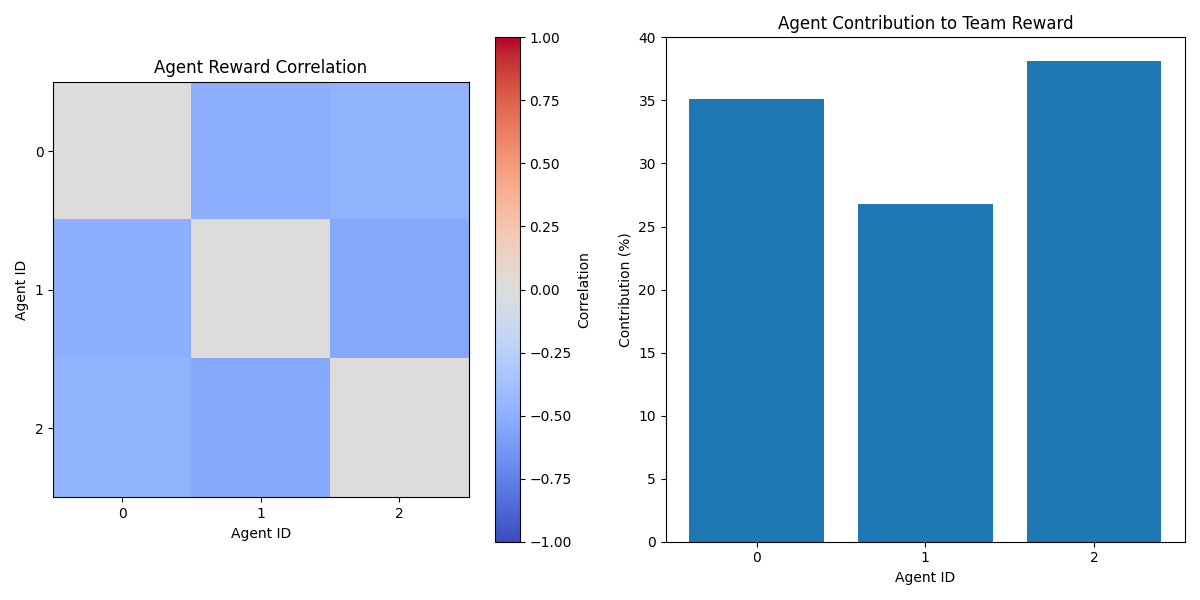
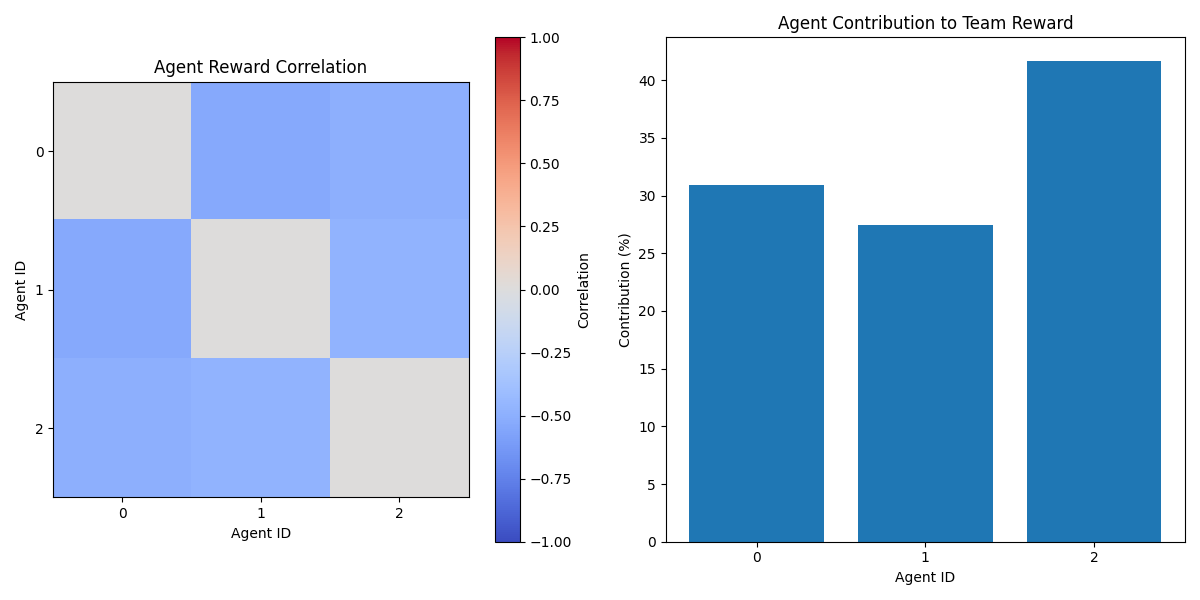
Tiempo de viaje implementado

diff --git a/environment.py b/environment.py
@@ -71,13 +71,20 @@ class FirefightingEnv(gym.Env):
         # - Agent's final destination (len(all_nodes))
         # - Other agents' next destinations (len(all_nodes) * (num_agents-1))
         # - Other agents' final destinations (len(all_nodes) * (num_agents-1))
+
         self.state_dim = (
             len(self.all_nodes) * len(self.all_nodes) +  # Full adjacency matrix
             len(self.all_nodes) +    # Active fire nodes
             len(self.all_nodes) +    # Water source nodes
             len(self.all_nodes) +    # One-hot encoding of agent's position
             1 +                      # Current water level
-            len(self.all_nodes) * (self.num_agents - 1)   # Other agents' positions
+            len(self.all_nodes) * (self.num_agents - 1) +  # Other agents' positions
+            1 +                      # Transit status
+            1 +                      # Transit time remaining
+            len(self.all_nodes) +    # Agent's next destination
+            len(self.all_nodes) +    # Agent's final destination
+            len(self.all_nodes) * (self.num_agents - 1) +  # Other agents' next destinations
+            len(self.all_nodes) * (self.num_agents - 1)    # Other agents' final destinations
         )
 
         # Define action space (one per agent)
@@ -183,41 +190,53 @@ class FirefightingEnv(gym.Env):
             info: Additional information
         """
         assert len(actions) == self.num_agents, f"Expected {self.num_agents} actions, got {len(actions)}"
-        
         rewards = [0] * self.num_agents
-        
-        # Process each agent's action
-        for agent_id, action in enumerate(actions):
-            # ESTA ES LA LÍNEA CLAVE - Las acciones YA son índices en all_actions
-            # No necesitamos convertirlas, solo verificar que sean válidas
-            target_node = self.all_actions[action]
-            
-            # Verificar si el nodo destino es uno válido para este agente
-            if target_node not in self.agent_action_spaces[agent_id]['available']:
-                #print(f"Invalid target for agent {agent_id}: {target_node}, staying put.")
-                rewards[agent_id] = 0
-                self.agent_rewards[agent_id] += 0   # No reward for invalid action (stay put) but should penalize?
-                continue
-            
+        # Tracking de agentes que completaron el movimiento en este turno
+        just_arrived_agents = set()
+
+        # 1. Procesar movimiento de todos los agentes
+        for agent_id in range(self.num_agents):
+            if self.agent_in_transit[agent_id]:
+                self.move_to_node(agent_id, self.agent_transit_target[agent_id])
+                # Si llegó a destino en este turno
+                if not self.agent_in_transit[agent_id]:
+                    just_arrived_agents.add(agent_id)
+                    # Actualizar espacio de acciones pero NO procesar acciones automáticas todavía
+                    self._update_agent_action_space(agent_id)
+
+        # 2. Procesar llegadas
+        for agent_id in just_arrived_agents:
+            arrived_node = self.agent_positions[agent_id]
+            action = self.all_actions.index(arrived_node)
             reward = self._process_agent_action(agent_id, action)
             rewards[agent_id] = reward
             self.agent_rewards[agent_id] += reward
-        
-        # Update global reward
+
+        # 3. Elección de acción para agentes que NO llegaron en este turno
+        for agent_id, action in enumerate(actions):
+            # Omitir agentes que están en tránsito o acaban de llegar
+            if self.agent_in_transit[agent_id] or agent_id in just_arrived_agents:
+                continue
+            # Procesar acción normalmente
+            target_node = self.all_actions[action]
+            if target_node not in self.agent_action_spaces[agent_id]['available']:
+                rewards[agent_id] = 0
+                continue
+            reward = self._process_agent_action(agent_id, action)
+            rewards[agent_id] = reward
+            self.agent_rewards[agent_id] += reward
+
+        # UPDATE global reward
         self.total_reward += sum(rewards)
-        
         # Advance step and check episode completion
         self.current_step += 1
-        
         # Terminate if all fires are extinguished
         terminated = all(fire <= 0 for fire in self.fires_remaining.values())
         truncated = self.current_step >= self.max_steps
-
         # Bonus reward for extinguishing all fires
         if terminated:
             for agent_id in range(self.num_agents):
                 rewards[agent_id] += 1000.0
-        
         # Get observations for all agents
         observations = tuple(self._get_observation(agent_id) for agent_id in range(self.num_agents))
         info = self._get_info()
@@ -227,18 +246,20 @@ class FirefightingEnv(gym.Env):
     def _update_agent_action_space(self, agent_id):
         """Actualiza el espacio de acciones para un agente basado en su posición actual."""
         available_actions = []
-
-        # PRIORIDAD 1: Incendios activos si tiene agua
+        # Incendios activos si tiene agua
         if self.agent_water_levels[agent_id] > 0:
             for fire_node in self.fire_actions:
                 if (fire_node in self.fires_remaining and 
                     self.fires_remaining[fire_node] > 0):
                     available_actions.append(fire_node)
-
-        # PRIORIDAD 2: Tanques si necesita agua
+        # Tanques si necesita agua
         if self.agent_water_levels[agent_id] < self.vehicle_types[agent_id]['capacity']:
             for tank_node in self.tank_actions:
                 available_actions.append(tank_node)
+        # Si está en tránsito, no puede hacer nada
+        if self.agent_in_transit[agent_id]:
+            # Si el agente está en tránsito, no puede hacer nada
+            available_actions = []
 
         # Actualizar el espacio de acciones del agente
         self.agent_action_spaces[agent_id]['available'] = available_actions
@@ -258,18 +279,58 @@ class FirefightingEnv(gym.Env):
         # Manejar caso inesperado
         raise ValueError(f"Acción no válida: {action}")
     
+    def move_to_node(self, agent_id, target_node):
+        """Move an agent to a target node with transit time."""
+        # Si ya está en el nodo destino, no hacer nada
+        if self.agent_positions[agent_id] == target_node:
+            return
+        # Si el agente ya está en tránsito, procesar el tiempo restante
+        if self.agent_in_transit[agent_id]:
+            # Reducir tiempo restante
+            self.agent_transit_time_remaining[agent_id] -= 1
+            # Si el tránsito ha terminado
+            if self.agent_transit_time_remaining[agent_id] <= 0:
+                # Eliminar agente de la arista
+                current_edge = (self.agent_transit_source[agent_id], self.agent_transit_target[agent_id])
+                if agent_id in self.edge_occupancy[current_edge]:
+                    self.edge_occupancy[current_edge].remove(agent_id)
+
+                # Actualizar posición y limpiar estado de tránsito
+                self.agent_positions[agent_id] = self.agent_transit_target[agent_id]
+                self.agent_in_transit[agent_id] = False
+                self.agent_transit_time_remaining[agent_id] = 0
+                self.agent_transit_source[agent_id] = None
+                self.agent_transit_target[agent_id] = None
+                self.final_destinations[agent_id] = None
+            return
+        # Iniciar un nuevo tránsito
+        current_node = self.agent_positions[agent_id]
+        transit_time = self.graph[current_node][target_node]['transit_time']
+        # Registrar estado de tránsito
+        self.agent_transit_source[agent_id] = current_node
+        self.agent_transit_target[agent_id] = target_node
+        self.final_destinations[agent_id] = target_node
+        self.agent_in_transit[agent_id] = True
+        self.agent_transit_time_remaining[agent_id] = transit_time
+        # Actualizar ocupación de aristas
+        edge = (current_node, target_node)
+        self.edge_occupancy[edge].append(agent_id)
+    
     def handle_fire_action(self, agent_id, fire_node):
         """Handle an agent's action to target a fire node."""
-        reward = 0
-
         # Check if fire still exists
         if fire_node not in self.fires_remaining or self.fires_remaining[fire_node] <= 0:
-            return reward
+            return 0
         # Check if agent has enough water
         if self.agent_water_levels[agent_id] <= 0:
-            return reward
-        # Move to the fire node
-        self.agent_positions[agent_id] = fire_node
+            return 0
+        
+        # Si el agente no está en el nodo de incendio, moverse hacia él
+        if self.agent_positions[agent_id] != fire_node:
+            self.move_to_node(agent_id, fire_node)
+            if self.agent_in_transit[agent_id]:
+                return 0  # No reward if agent is in transit
+            
         # Try to extinguish the fire
         water_needed = self.fires_remaining[fire_node]
         water_available = self.agent_water_levels[agent_id]
@@ -293,7 +354,12 @@ class FirefightingEnv(gym.Env):
         
     def handle_tank_action(self, agent_id, tank_node):
         """Handle an agent's action to target a water tank node."""
-        self.agent_positions[agent_id] = tank_node
+        # Si el agente no está en el nodo del tanque, moverse hacia él
+        if self.agent_positions[agent_id] != tank_node:
+            self.move_to_node(agent_id, tank_node)
+            # Si comenzó a moverse, no puede recargar agua aún
+            if self.agent_in_transit[agent_id]:
+                return 0
         # Refill water
         capacity = self.vehicle_types[agent_id]['capacity']
         self.agent_water_levels[agent_id] = capacity
@@ -328,7 +394,7 @@ class FirefightingEnv(gym.Env):
         ], dtype=np.float32)
 
         # Water source nodes (1 if it's a reservoir, 0 if not)
-        tank_nodes = np.array([1 if node in self.tank_nodes else 0 for node in self.all_nodes], dtype=np.float32)
+        water_nodes = np.array([1 if node in self.tank_nodes else 0 for node in self.all_nodes], dtype=np.float32)
 
         # Agent's position (one-hot encoding)
         agent_pos_encoding = np.zeros(len(self.all_nodes), dtype=np.float32)
@@ -342,15 +408,73 @@ class FirefightingEnv(gym.Env):
         # Other agents' positions (one-hot encoding for each)
         other_agents_pos = np.zeros(len(self.all_nodes) * (self.num_agents - 1), dtype=np.float32)
 
+        # Other agents' next destinations (in transit)
+        other_agents_next_dest = np.zeros(len(self.all_nodes) * (self.num_agents - 1), dtype=np.float32)
+
+        # Other agents' final destinations (planned target)
+        other_agents_final_dest = np.zeros(len(self.all_nodes) * (self.num_agents - 1), dtype=np.float32)
+
+        # Process other agents' positions and destinations
+        other_idx = 0
+        for other_id in range(self.num_agents):
+            if other_id != agent_id:
+                # Current position
+                other_pos = self.agent_positions[other_id]
+                other_pos_idx = self.node_to_idx[other_pos]
+                other_agents_pos[other_idx * len(self.all_nodes) + other_pos_idx] = 1.0
+
+                # If in transit, add next destination (immediate target)
+                if self.agent_in_transit[other_id]:
+                    next_dest = self.agent_transit_target[other_id]
+                    next_dest_idx = self.node_to_idx[next_dest]
+                    other_agents_next_dest[other_idx * len(self.all_nodes) + next_dest_idx] = 1.0
+
+                    final_dest = self.final_destinations[other_id]
+                    final_dest_idx = self.node_to_idx[final_dest]
+                    other_agents_final_dest[other_idx * len(self.all_nodes) + final_dest_idx] = 1.0
+
+                other_idx += 1
+
+        # Agent's own transit information
+        # Next destination (one-hot encoding)
+        agent_next_dest = np.zeros(len(self.all_nodes), dtype=np.float32)
+
+        # Final destination (one-hot encoding)
+        agent_final_dest = np.zeros(len(self.all_nodes), dtype=np.float32)
+
+        # Transit status
+        transit_status = np.array([1.0 if self.agent_in_transit[agent_id] else 0.0], dtype=np.float32)
+
+        # Transit time remaining (normalized)
+        max_travel_time = max(data['transit_time'] for _, _, data in self.graph.edges(data=True))
+        transit_time = np.array([
+            self.agent_transit_time_remaining[agent_id] / max_travel_time 
+            if self.agent_in_transit[agent_id] else 0.0
+        ], dtype=np.float32)
+
+        # If agent is in transit, set destinations
+        if self.agent_in_transit[agent_id]:
+            # Next/immediate destination
+            transit_target = self.agent_transit_target[agent_id]
+            target_idx = self.node_to_idx[transit_target]
+            final_idx = self.node_to_idx[self.final_destinations[agent_id]]
+            agent_next_dest[target_idx] = 1.0
+            agent_final_dest[final_idx] = 1.0
 
         # Concatenate all features into a single observation vector
         observation = np.concatenate([
             adjacency_matrix,      # Full graph adjacency matrix
             fire_status,           # Active fires
-            tank_nodes,           # Water sources
+            water_nodes,           # Water sources
             agent_pos_encoding,    # Agent's position
             water_level,           # Agent's water level
-            other_agents_pos       # Other agents' positions
+            other_agents_pos,      # Other agents' positions
+            transit_status,        # Agent's transit status
+            transit_time,          # Agent's transit time remaining
+            agent_next_dest,       # Agent's next destination
+            agent_final_dest,      # Agent's final destination
+            other_agents_next_dest,# Other agents' next destinations
+            other_agents_final_dest# Other agents' final destinations
         ])
 
         return observation

diff --git a/graph_utils.py b/graph_utils.py
@@ -35,7 +35,9 @@ def generate_graph(fires=8, tanks=3, starters=3):
     for node1 in G.nodes():
         for node2 in G.nodes():
             if node1 != node2:
-                G.add_edge(node1, node2)
+                # Generar un tiempo aleatorio entre 1 y 20
+                transit_time = random.randint(1, 3)
+                G.add_edge(node1, node2, transit_time=transit_time)
     
     return G
 
@@ -67,6 +69,10 @@ def visualize_graph(G):
     
     # Dibujar el grafo
     nx.draw(G, pos, with_labels=True, node_color=colors, node_size=500)
+
+    # Dibujar etiquetas de las aristas
+    edge_labels = nx.get_edge_attributes(G, 'transit_time')
+    nx.draw_networkx_edge_labels(G, pos, edge_labels=edge_labels)
     
     # Retornar la figura
     return fig
